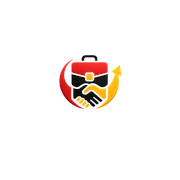
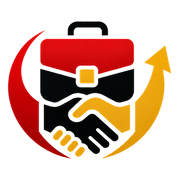
fix(brand): logotipo ampliado, ícone re-renderizado e splash maior

diff --git a/src/components/Logo.tsx b/src/components/Logo.tsx
@@ -24,7 +24,7 @@ export default function Logo({
       <img
         src={config.logo_url || '/logo.png'}
         alt={config.site_title || 'MÔ SALO'}
-        className={`max-w-full max-h-8 h-8 w-auto object-contain ${className}`}
+        className={`max-w-full max-h-48 h-auto w-auto object-contain ${className}`}
       />
     )
   }
@@ -44,9 +44,9 @@ export default function Logo({
       <img
         src={config.logo_icon_url || '/logo-icon.png'}
         alt=""
-        className={`h-8 w-auto max-h-8 max-w-8 object-contain ${iconClassName}`}
+        className={`h-10 w-auto max-h-10 max-w-10 object-contain ${iconClassName}`}
       />
-      {showText && <span className={`font-bold text-lg whitespace-nowrap ${textClassName}`}>{config.site_title || 'MÔ SALO'}</span>}
+      {showText && <span className={`font-bold text-xl whitespace-nowrap ${textClassName}`}>{config.site_title || 'MÔ SALO'}</span>}
     </div>
   )
 }

diff --git a/src/components/SplashScreen.tsx b/src/components/SplashScreen.tsx
@@ -35,12 +35,10 @@ export default function SplashScreen() {
       style={{ background: `linear-gradient(135deg, ${config.primary_color || '#BC181C'} 0%, ${config.secondary_color || '#ECA61B'} 100%)` }}
     >
       <div className="animate-scale-in flex flex-col items-center w-full max-w-xs">
-        <div className="relative w-20 h-20 sm:w-24 sm:h-24 bg-white rounded-3xl p-4 shadow-2xl mb-5 flex items-center justify-center overflow-hidden max-w-[80vw] max-h-[35vh]">
+        <div className="relative w-24 h-24 sm:w-32 sm:h-32 bg-white rounded-3xl p-2 shadow-2xl mb-5 flex items-center justify-center overflow-hidden">
           <img
             src={config.logo_icon_url || '/logo-icon.png'}
             alt={config.site_title || 'MÔ SALO'}
-            width={96}
-            height={96}
             className="w-full h-full object-contain"
           />
         </div>
